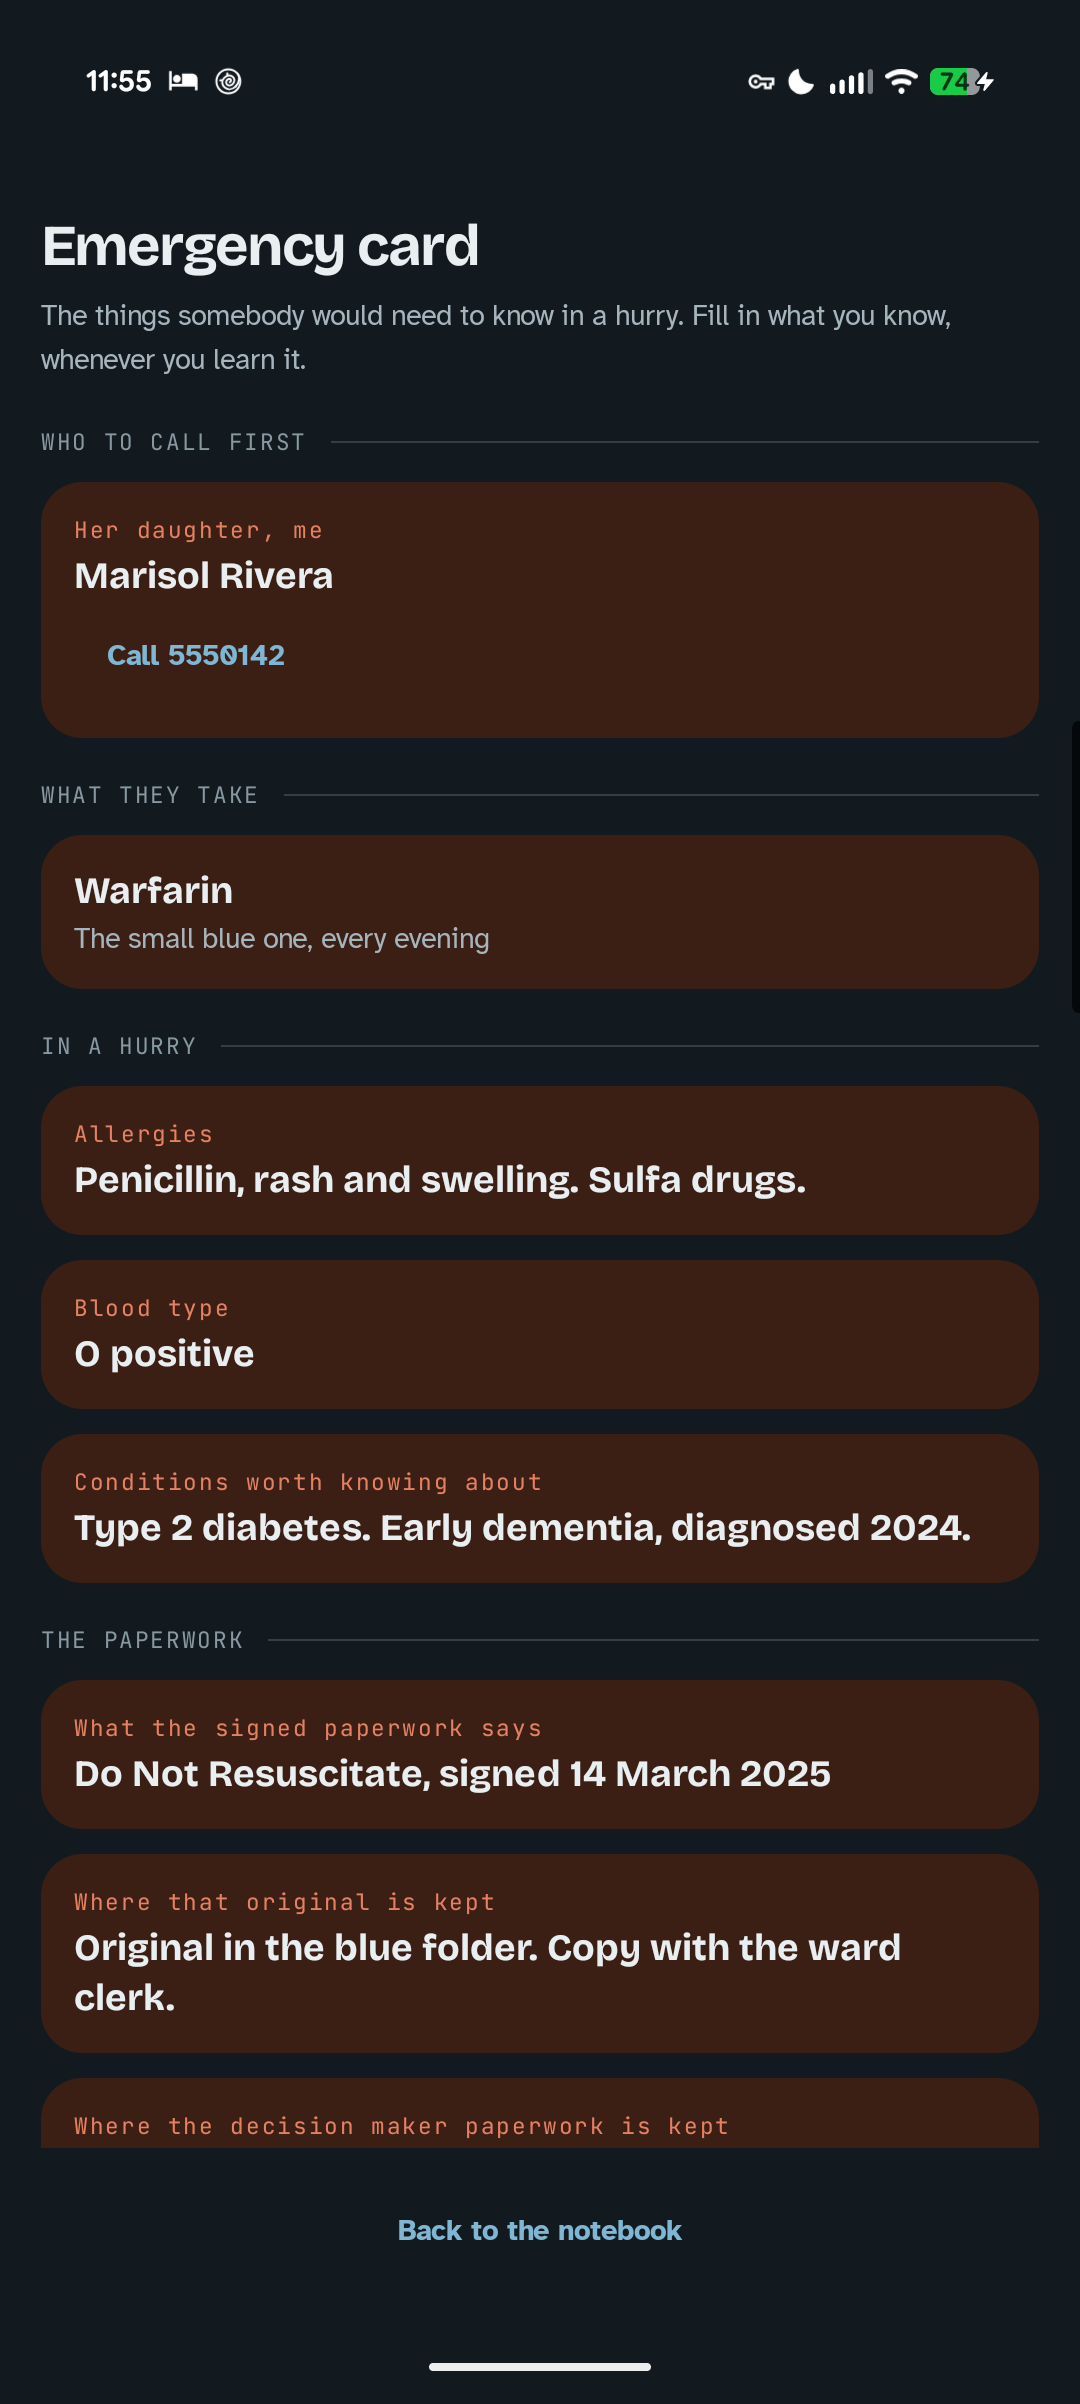
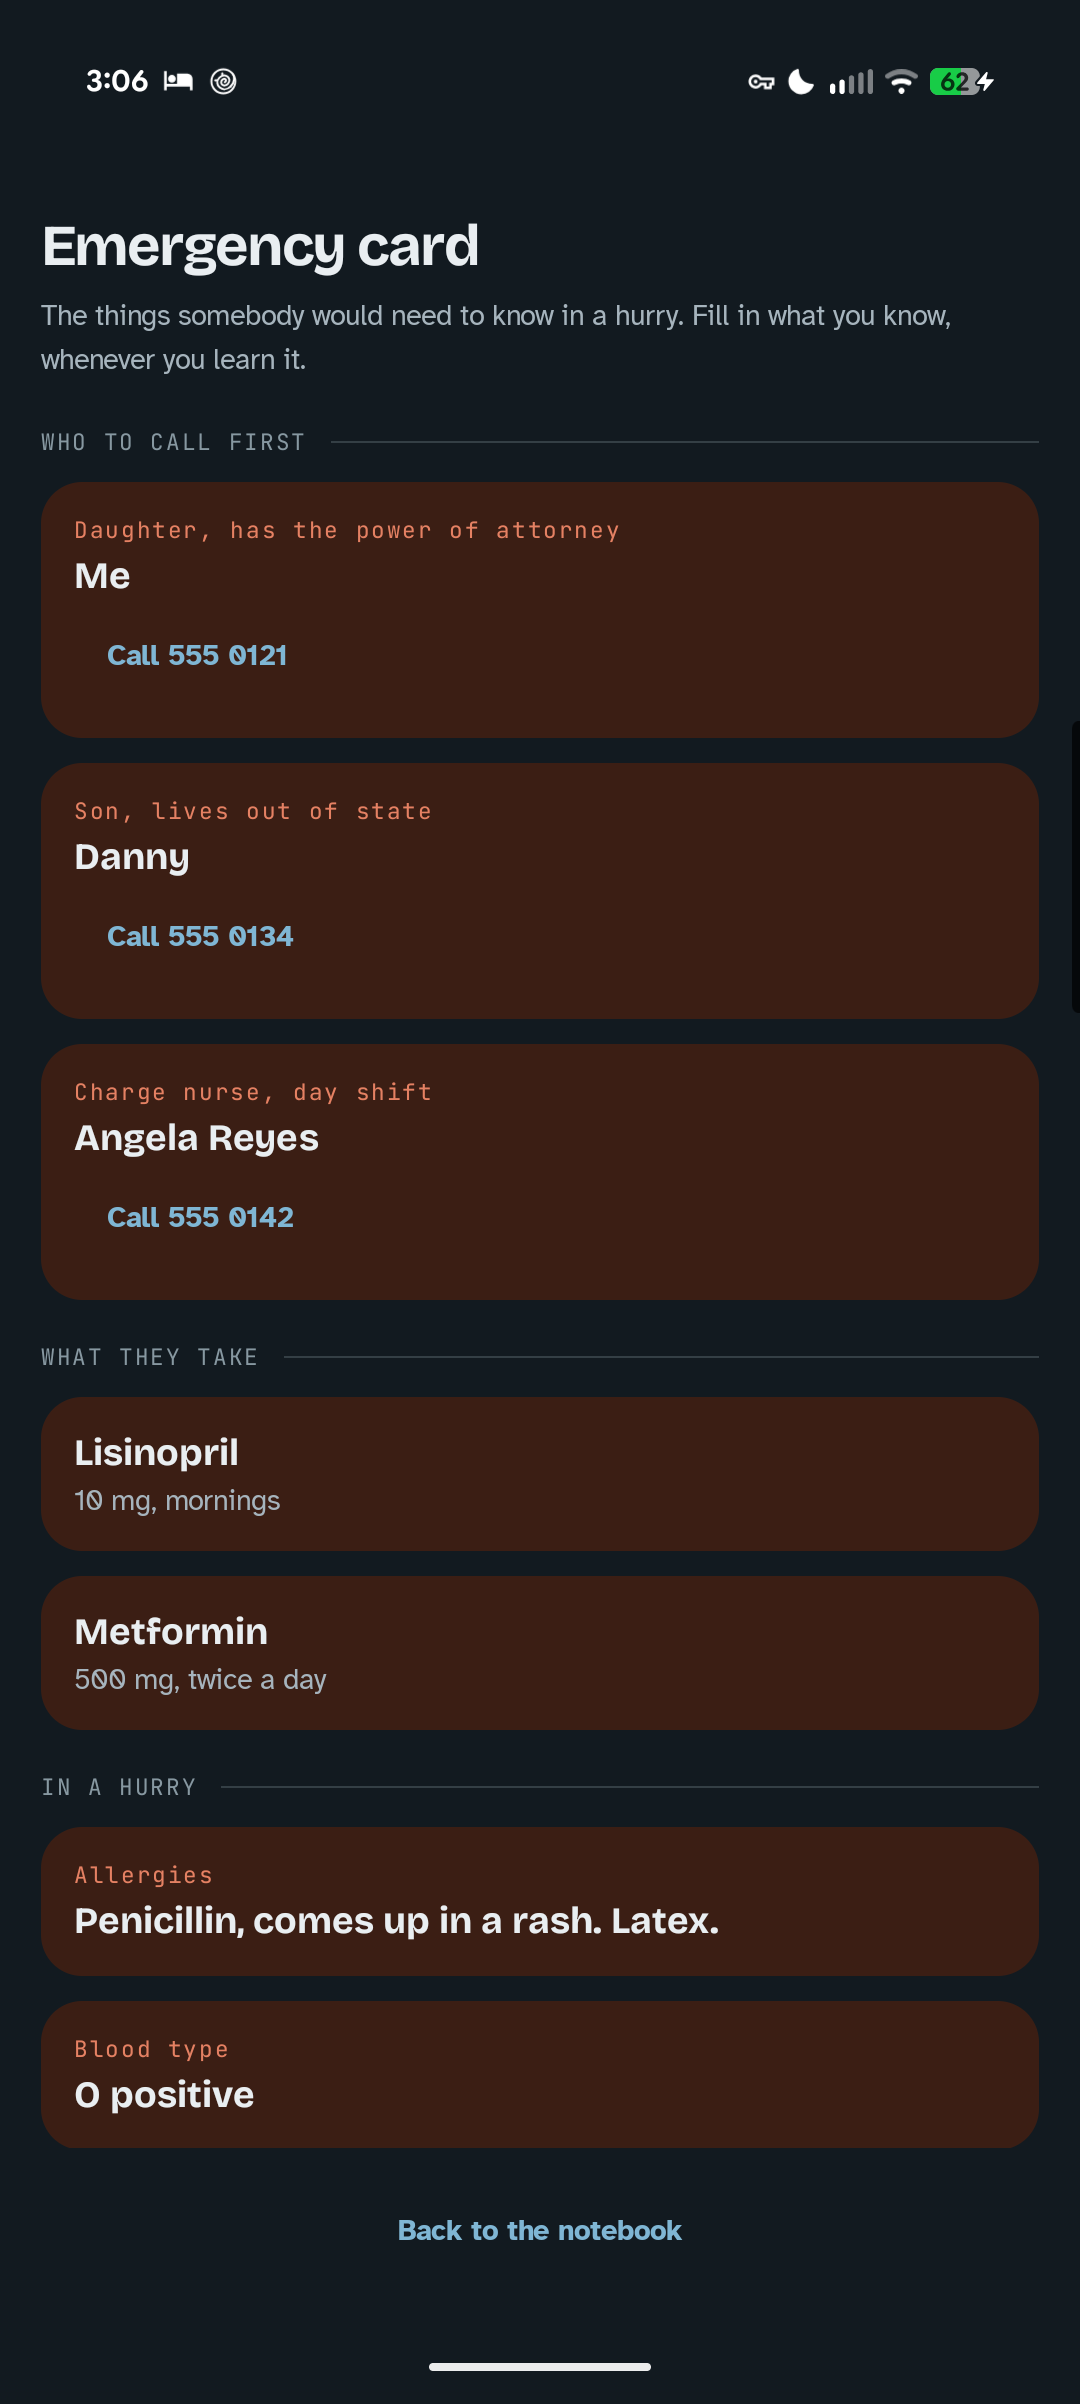
The emergency card had never been seen with anything on it
emergency_card and emergency_contact were two more of the seventeen tables
nothing generated, so the one screen in this app built to be handed to a
stranger in a hurry had only ever been looked at empty or with a line
typed in by hand. It holds a full card now: allergies, blood type,
conditions, what the signed paperwork says and where that original is
kept, insurance, and the things somebody would say out loud if they were
there. Three contacts, two of them family and one carried by their person
row rather than retyped, which is the link person_id exists for and
nothing wrote.

Where the original is kept is filled in for both documents, because a card
saying there is a signed directive is no use to anybody who cannot produce
the paper, and that is the whole reason the schema carries a location
beside each one.

It also confirmed this morning's fix against different data. Atorvastatin
came out of this seed stopped and flagged for the card, and the card
leaves it off while listing the two current ones. That path was argued
from the code earlier and has now been watched.

And the notebook said "Emergency card, 1 item". Every other section holds
a list somebody adds to, so a count is a fact about their notebook. A card
is one thing, and counting its row was the shape of the table showing
through onto the app's front door, which is rule 20 exactly. It says
whether there is anything on it now, in all four catalogs, and it does not
grade how much, per rule 13.

diff --git a/android/app/src/main/kotlin/com/kamsiob/healthtrail/ui/screens/NotebookScreen.kt b/android/app/src/main/kotlin/com/kamsiob/healthtrail/ui/screens/NotebookScreen.kt
@@ -398,9 +398,21 @@ private fun SectionRow(row: SectionCount, onClick: () -> Unit) {
         // Composed from a message template so the plural is the catalog's
         // problem rather than a branch in this code, and so zero reads as words
         // rather than as a digit. One style, one color, at all three weights.
+        //
+        // **The emergency card is one row and counting it says nothing.** Every
+        // other section holds a list somebody adds to, so "9 items" is a fact
+        // about their notebook. A card is a single thing, and "1 item" was the
+        // shape of the table showing through onto the app's front door, which
+        // is rule 20 exactly. It says whether there is anything on it instead,
+        // and it does not grade how much, per rule 13.
+        val countKey = if (row.section == Repository.Section.EMERGENCY_CARD) {
+            "notebook.count.emergency_card"
+        } else {
+            "notebook.count"
+        }
         val count = @Composable {
             Text(
-                text = strings("notebook.count", "count" to row.count),
+                text = strings(countKey, "count" to row.count),
                 style = HealthTrail.type.mono,
                 color = colors.ink3Text,
                 modifier = Modifier.testTag(NotebookTags.count(row.section)),

diff --git a/tools/fixtures/generate.py b/tools/fixtures/generate.py
@@ -163,6 +163,7 @@ class Generator:
         appointments = self.appointments(db, subject_id, chapters, people)
         self.questions(db, subject_id, people, appointments)
         self.medications(db, subject_id, chapters, people)
+        self.emergency_card(db, subject_id, people)
         self.measures(db, subject_id)
         self.milestones(db, subject_id)
         self.incidents(db, subject_id, chapters)
@@ -687,6 +688,77 @@ class Generator:
         if stopped is not None:
             event("stopped", stopped, note="Nobody told me until I asked.")
 
+    def emergency_card(self, db, subject_id, people):
+        """The card somebody would be handed, and who to call first.
+
+        **Written in the words a family would use, not a clinician's.** The
+        schema calls one column `resuscitation_status` and the screen asks for
+        "what the signed paperwork says", which is the honest question: the app
+        records what the document says and never what it means. Rule 2.
+
+        **Where the original is kept is half of every answer here.** A card
+        saying there is a signed directive is no use to anybody who cannot
+        produce the paper, which is why the schema carries a location beside
+        each one and why the fixture fills them in.
+        """
+        card_id = self.row(
+            db,
+            "emergency_card",
+            {
+                "subject_id": subject_id,
+                "allergies": "Penicillin, comes up in a rash. Latex.",
+                "blood_type": "O positive",
+                "conditions": "Dementia. She will say she is fine. Deaf in the left ear.",
+                "resuscitation_status": "Do not resuscitate, signed 2024",
+                "resuscitation_document_location": "In the blue folder at home, and the facility has a copy in her chart",
+                "decision_maker_person_id": None,
+                "decision_maker_document_location": "Power of attorney, filed with the county, copy in the blue folder",
+                "insurance_note": "Medicare plus the supplement. Cards are in her purse and photographed in Documents.",
+                "other_notes": (
+                    "She gets frightened in the ambulance if nobody is holding her hand. "
+                    "Her glasses and hearing aid are in the drawer by the bed."
+                ),
+            },
+            day=max(0, self.days // 4),
+        )
+
+        # **Family first, then the facility.** The order is the order somebody
+        # would work down it, and `sort_index` is what holds it.
+        contacts = [
+            ("Me", "555 0121", "Daughter, has the power of attorney"),
+            ("Danny", "555 0134", "Son, lives out of state"),
+        ]
+        for index, (name, phone, relationship) in enumerate(contacts):
+            self.row(
+                db,
+                "emergency_contact",
+                {
+                    "emergency_card_id": card_id,
+                    "display_name": name,
+                    "phone": phone,
+                    "relationship": relationship,
+                    "sort_index": index,
+                },
+                day=max(0, self.days // 4),
+            )
+
+        # Somebody from the care team, carried by their person row rather than
+        # retyped, which is the link `person_id` exists for and nothing wrote.
+        if people:
+            self.row(
+                db,
+                "emergency_contact",
+                {
+                    "emergency_card_id": card_id,
+                    "person_id": people[0],
+                    "display_name": PEOPLE[0][0],
+                    "phone": PEOPLE[0][2],
+                    "relationship": PEOPLE[0][1],
+                    "sort_index": len(contacts),
+                },
+                day=max(0, self.days // 4),
+            )
+
     def bills(self, db, subject_id, chapters):
         """One bill in every state the schema allows.
 
@@ -1201,6 +1273,8 @@ def generate(seed, point, out):
             "question",
             "medication",
             "medication_event",
+            "emergency_card",
+            "emergency_contact",
         )
     }
     db.close()
